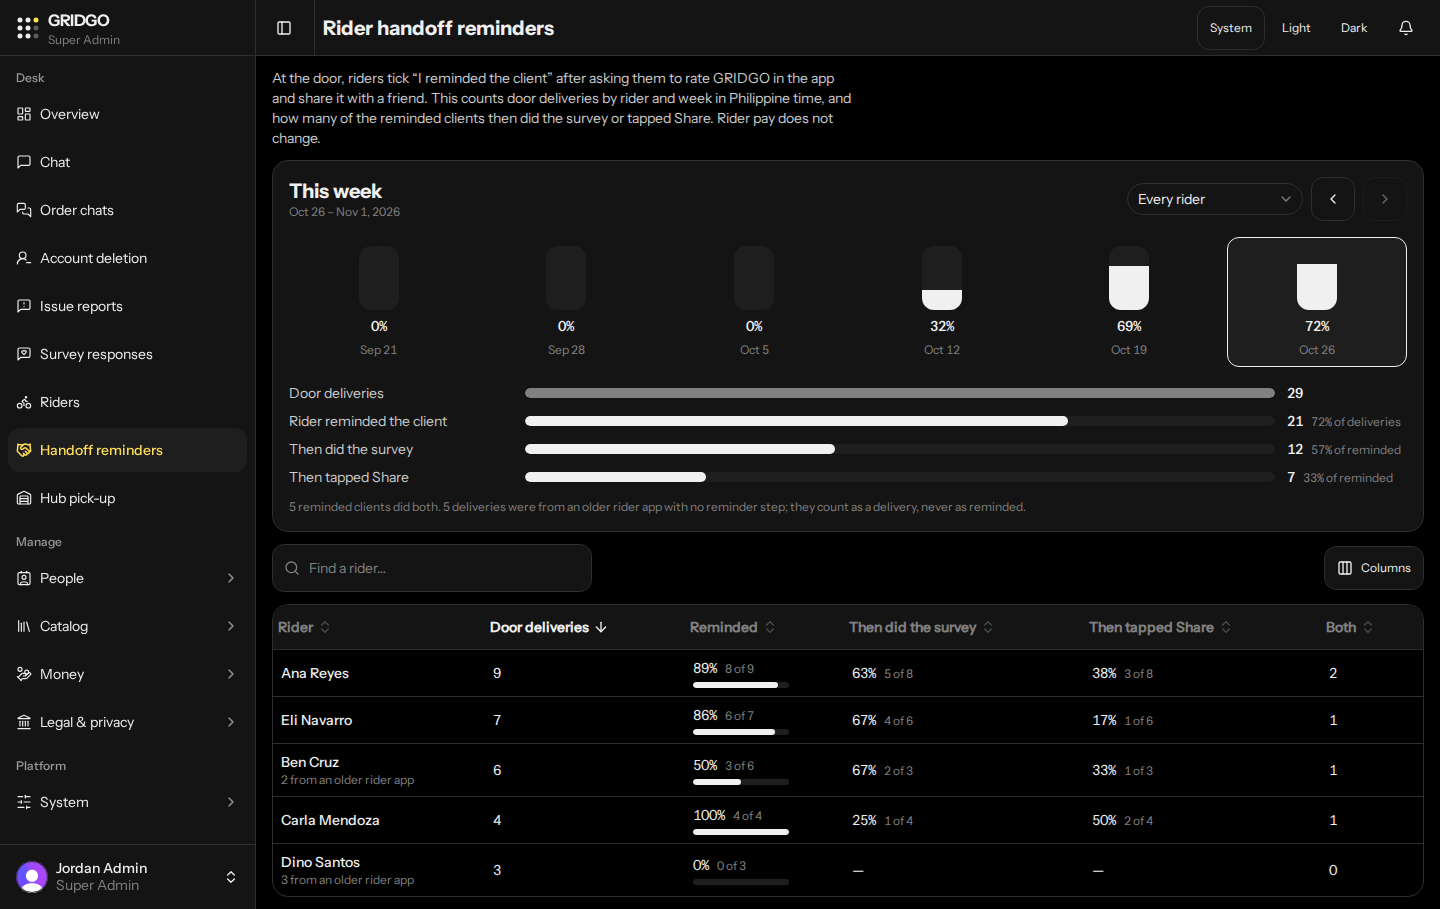
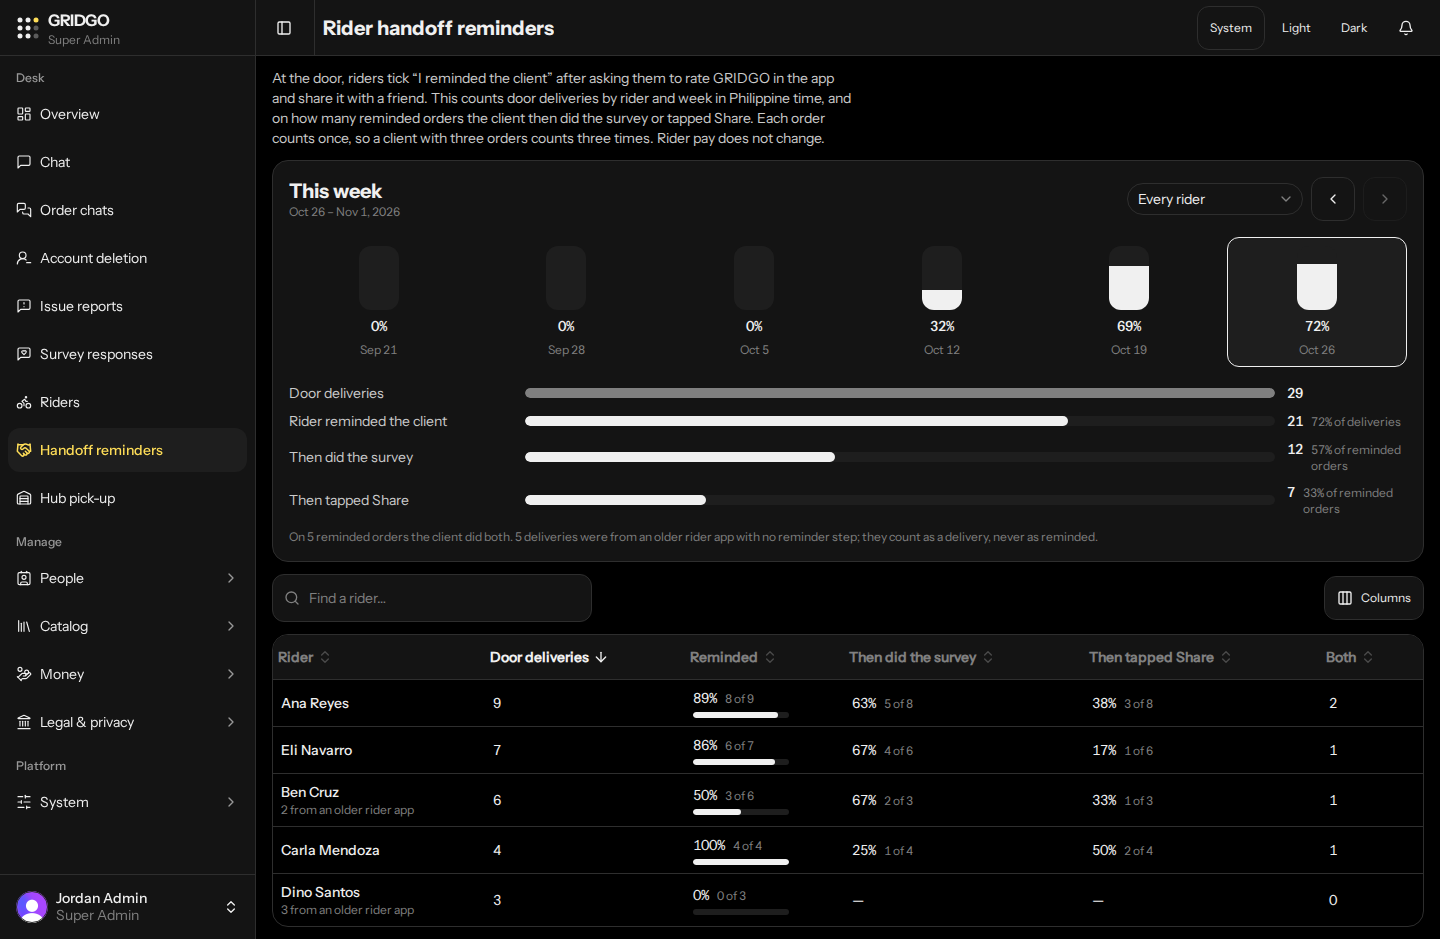
Handoff reminders: honest failed-block state, order wording, 44px week targets
From the independent review of aa8eac3:

- A failed read of another six-week block no longer shows the previous
  block's rows as zero deliveries: the page tracks which weeks its rows
  belong to and shows "Could not load these weeks" with Retry. A failed
  refresh of the same weeks keeps the last figures, says so, and offers
  Retry.
- Follow-through is per order, as the API counts it: "reminded orders",
  never "reminded clients", in the labels, notes and intro.
- Missions copy: a share tap is an attempt to open the share sheet,
  whether or not it opened.
- The week strip folds to two rows of three below 352px, so each week
  stays at least 44px wide at 320px.

Regression tests for the failed block, the failed refresh, one client's
three orders, and the missions copy.

diff --git a/src/components/riders/HandoffReminders.tsx b/src/components/riders/HandoffReminders.tsx
@@ -63,7 +63,7 @@ function riderLabel(names: Map<string, string>, riderId: string): string {
  * Rider handoff reminders for Operations and Super Admin
  * (`GET /ops/delivery-reminders`, gridgo-rider#157). Riders tick "I reminded
  * the client" at the door; this shows, per rider and per Manila week, how
- * many door deliveries carried the reminder and how many of those clients
+ * many door deliveries carried the reminder and on how many of those orders the client
  * then did the survey and tapped Share. Read-only, and nothing here changes
  * rider pay. The week and rider live in the URL (`?week=2026-10-26&rider=`).
  */
@@ -277,7 +277,12 @@ export function HandoffReminders({ tree }: { tree: "ops" | "admin" }) {
     );
   }
 
-  const stale = loading && shownWindow !== windowKey;
+  // The rows on hand belong to another six weeks: shown while the next read
+  // is on its way (as skeletons), never as this window's figures. A read of
+  // these weeks that failed leaves nothing true to show but the error.
+  const otherWindow = shownWindow !== windowKey;
+  const waiting = pending || (loading && otherWindow);
+  const windowFailed = !loading && error !== null && otherWindow;
   const totals = totalsByWeek.get(selected) ?? sumReminderWeeks([]);
   const riderName = riderFilter ? riderLabel(names, riderFilter) : null;
 
@@ -286,8 +291,9 @@ export function HandoffReminders({ tree }: { tree: "ops" | "admin" }) {
       <p className="text-body text-text-secondary m-0 max-w-prose">
         At the door, riders tick &ldquo;I reminded the client&rdquo; after asking them to
         rate GRIDGO in the app and share it with a friend. This counts door deliveries by
-        rider and week in Philippine time, and how many of the reminded clients then did
-        the survey or tapped Share. Rider pay does not change.
+        rider and week in Philippine time, and on how many reminded orders the client then
+        did the survey or tapped Share. Each order counts once, so a client with three
+        orders counts three times. Rider pay does not change.
       </p>
 
       <section className="gg-card flex flex-col gap-4" aria-labelledby="reminder-week">
@@ -341,25 +347,44 @@ export function HandoffReminders({ tree }: { tree: "ops" | "admin" }) {
           </div>
         </div>
 
-        <WeekStrip
-          weeks={strip}
-          current={current}
-          selected={selected}
-          totals={totalsByWeek}
-          loading={pending || stale}
-          onSelect={(week) => go({ week })}
-        />
+        {windowFailed ? (
+          <ErrorState
+            title="Could not load these weeks"
+            body={error ?? ""}
+            action={
+              <Button variant="secondary" onClick={() => void load()}>
+                Retry
+              </Button>
+            }
+          />
+        ) : (
+          <>
+            <WeekStrip
+              weeks={strip}
+              current={current}
+              selected={selected}
+              totals={totalsByWeek}
+              loading={waiting}
+              onSelect={(week) => go({ week })}
+            />
 
-        <FollowThrough totals={totals} loading={pending || stale} />
+            <FollowThrough totals={totals} loading={waiting} />
+          </>
+        )}
       </section>
 
-      {error && rows ? (
-        <p className="text-body text-error m-0" role="alert">
-          {error}
-        </p>
+      {error && rows && !windowFailed ? (
+        <div className="flex flex-wrap items-center gap-3" role="alert">
+          <p className="text-body text-error m-0">
+            {error} These figures are from the last successful read.
+          </p>
+          <Button variant="secondary" onClick={() => void load()}>
+            Retry
+          </Button>
+        </div>
       ) : null}
 
-      {!pending && !stale && weekRows.length === 0 ? (
+      {windowFailed ? null : !waiting && weekRows.length === 0 ? (
         <EmptyState
           title={
             riderName ? `No door deliveries by ${riderName} this week` : "No door deliveries this week"
@@ -377,7 +402,7 @@ export function HandoffReminders({ tree }: { tree: "ops" | "admin" }) {
         <DataTable
           columns={columns}
           data={weekRows}
-          loading={pending || stale}
+          loading={waiting}
           getRowId={(row) => `${row.riderId}:${row.weekStart}`}
           caption={`Handoff reminders by rider, ${weekLabel(selected)}`}
           filterPlaceholder="Find a rider…"
@@ -406,9 +431,9 @@ export function RateCell({
   const words =
     percent === null
       ? of === "reminded"
-        ? "No reminded clients"
+        ? "No reminded orders"
         : "No deliveries"
-      : `${part} of ${whole} ${of === "reminded" ? "reminded clients" : "deliveries"}, ${percent}%`;
+      : `${part} of ${whole} ${of === "reminded" ? "reminded orders" : "deliveries"}, ${percent}%`;
   return (
     <span className="inline-flex min-w-0 flex-col gap-1" aria-label={words}>
       <span className="inline-flex items-baseline gap-2" aria-hidden>
@@ -452,7 +477,13 @@ function WeekStrip({
   onSelect: (week: string) => void;
 }) {
   return (
-    <div role="group" aria-label="Weeks" className="grid grid-cols-6 gap-1 sm:gap-2">
+    // Six across from 352px; below that (a 320px phone) a week would be under
+    // the 44px floor, so the strip folds to two rows of three.
+    <div
+      role="group"
+      aria-label="Weeks"
+      className="grid grid-cols-3 gap-1 min-[352px]:grid-cols-6 sm:gap-2"
+    >
       {weeks.map((week) => {
         const total = totals.get(week);
         const deliveries = total?.deliveries ?? 0;
@@ -475,7 +506,7 @@ function WeekStrip({
             aria-label={label}
             onClick={() => onSelect(week)}
             className={cn(
-              "flex min-h-11 min-w-0 flex-col items-stretch gap-1.5 rounded-field border px-1 py-2 text-center",
+              "flex min-h-11 min-w-11 flex-col items-stretch gap-1.5 rounded-field border px-1 py-2 text-center",
               "hover:bg-overlay-hover disabled:cursor-default disabled:opacity-50 disabled:hover:bg-transparent",
               isSelected ? "border-text-primary bg-surface-variant" : "border-transparent",
             )}
@@ -540,7 +571,7 @@ function FollowThrough({ totals, loading }: { totals: ReminderTotals; loading: b
       value: totals.surveySubmittedDeliveries,
       note:
         totals.remindedDeliveries > 0
-          ? `${formatRate(totals.surveySubmittedDeliveries, totals.remindedDeliveries)} of reminded`
+          ? `${formatRate(totals.surveySubmittedDeliveries, totals.remindedDeliveries)} of reminded orders`
           : null,
     },
     {
@@ -549,7 +580,7 @@ function FollowThrough({ totals, loading }: { totals: ReminderTotals; loading: b
       value: totals.shareTappedDeliveries,
       note:
         totals.remindedDeliveries > 0
-          ? `${formatRate(totals.shareTappedDeliveries, totals.remindedDeliveries)} of reminded`
+          ? `${formatRate(totals.shareTappedDeliveries, totals.remindedDeliveries)} of reminded orders`
           : null,
     },
   ];
@@ -598,7 +629,7 @@ function FollowThrough({ totals, loading }: { totals: ReminderTotals; loading: b
       {!loading && (totals.surveyAndShareDeliveries > 0 || totals.legacyDeliveries > 0) ? (
         <p className="text-caption text-text-muted m-0">
           {totals.surveyAndShareDeliveries > 0
-            ? `${totals.surveyAndShareDeliveries} reminded ${totals.surveyAndShareDeliveries === 1 ? "client" : "clients"} did both. `
+            ? `On ${totals.surveyAndShareDeliveries} reminded ${totals.surveyAndShareDeliveries === 1 ? "order" : "orders"} the client did both. `
             : ""}
           {totals.legacyDeliveries > 0
             ? `${totals.legacyDeliveries} ${totals.legacyDeliveries === 1 ? "delivery was" : "deliveries were"} from an older rider app with no reminder step; ${totals.legacyDeliveries === 1 ? "it counts" : "they count"} as a delivery, never as reminded.`

diff --git a/src/components/riders/__tests__/handoff-reminders.test.tsx b/src/components/riders/__tests__/handoff-reminders.test.tsx
@@ -2,20 +2,33 @@
 
 import "@testing-library/jest-dom/vitest";
 
-import { cleanup, fireEvent, render, screen, waitFor, within } from "@testing-library/react";
+import {
+  act,
+  cleanup,
+  fireEvent,
+  render,
+  screen,
+  waitFor,
+  within,
+} from "@testing-library/react";
 import React from "react";
 import { afterEach, beforeEach, describe, expect, it, vi } from "vitest";
 
 import { ApiError } from "@/lib/api/client";
 
-const { api, nav } = vi.hoisted(() => ({
+const { api, nav, live } = vi.hoisted(() => ({
+  live: { reload: null as null | (() => Promise<void> | void) },
   api: { apiRequest: vi.fn(), listUsers: vi.fn() },
   nav: { replace: vi.fn(), params: new URLSearchParams() },
 }));
 
 vi.stubGlobal("React", React);
 vi.stubGlobal("PointerEvent", MouseEvent);
-vi.mock("@/lib/live/useLiveReload", () => ({ useLiveReload: () => {} }));
+vi.mock("@/lib/live/useLiveReload", () => ({
+  useLiveReload: (_keys: unknown, reload: () => Promise<void> | void) => {
+    live.reload = reload;
+  },
+}));
 vi.mock("next/navigation", () => ({
   useRouter: () => ({ push: vi.fn(), replace: nav.replace }),
   useSearchParams: () => nav.params,
@@ -69,6 +82,7 @@ afterEach(() => {
   vi.useRealTimers();
   vi.clearAllMocks();
   nav.params = new URLSearchParams();
+  live.reload = null;
 });
 
 describe("stripWeeks", () => {
@@ -104,15 +118,15 @@ describe("HandoffReminders", () => {
     );
     const ana = within(table).getByText("Ana Reyes").closest("tr")!;
     expect(within(ana).getByLabelText("3 of 4 deliveries, 75%")).toBeInTheDocument();
-    expect(within(ana).getByLabelText("2 of 3 reminded clients, 67%")).toBeInTheDocument();
-    expect(within(ana).getByLabelText("1 of 3 reminded clients, 33%")).toBeInTheDocument();
+    expect(within(ana).getByLabelText("2 of 3 reminded orders, 67%")).toBeInTheDocument();
+    expect(within(ana).getByLabelText("1 of 3 reminded orders, 33%")).toBeInTheDocument();
     expect(within(ana).getByText("1 from an older rider app")).toBeInTheDocument();
     // Only this week's riders are listed; last week sits on the strip.
     expect(within(table).getAllByRole("row")).toHaveLength(3);
 
     // The week's follow-through, across both riders: 5 of 6 reminded.
     expect(screen.getByText("83% of deliveries")).toBeInTheDocument();
-    expect(screen.getByText("40% of reminded")).toBeInTheDocument();
+    expect(screen.getByText("40% of reminded orders")).toBeInTheDocument();
     expect(
       screen.getByRole("button", { name: "Oct 19 – Oct 25, 2026: 20% reminded, 1 of 5 deliveries" }),
     ).toBeInTheDocument();
@@ -127,7 +141,7 @@ describe("HandoffReminders", () => {
     render(<HandoffReminders tree="ops" />);
 
     const table = await screen.findByRole("table");
-    expect(within(table).getAllByLabelText("0 of 3 reminded clients, 0%")).toHaveLength(2);
+    expect(within(table).getAllByLabelText("0 of 3 reminded orders, 0%")).toHaveLength(2);
   });
 
   it("selects a week from the strip through the address bar", async () => {
@@ -179,6 +193,79 @@ describe("HandoffReminders", () => {
 
     fireEvent.click(await screen.findByRole("button", { name: "Go to this week" }));
     expect(nav.replace).toHaveBeenCalledWith("/ops/handoff-reminders", { scroll: false });
+  });
+
+  it("never shows another block's rows as zero when the next six weeks fail to load", async () => {
+    report([row()]);
+    const { rerender } = render(<HandoffReminders tree="ops" />);
+    expect(await screen.findByRole("table")).toBeInTheDocument();
+
+    // Previous week from Sep 21 opens the block before; that read fails.
+    api.apiRequest.mockRejectedValueOnce(new ApiError(500, { error: "server_error" }));
+    nav.params = new URLSearchParams("week=2026-09-14");
+    rerender(<HandoffReminders tree="ops" />);
+
+    expect(await screen.findByText("Could not load these weeks")).toBeInTheDocument();
+    expect(screen.getByRole("heading", { name: "Week of Sep 14" })).toBeInTheDocument();
+    expect(screen.queryByText(/No door deliveries/)).toBeNull();
+    expect(screen.queryByText("Door deliveries")).toBeNull();
+    expect(screen.queryByRole("group", { name: "Weeks" })).toBeNull();
+    expect(screen.queryByRole("table")).toBeNull();
+
+    // Retry reads the requested block, and only then its figures show.
+    report([row({ weekStart: "2026-09-14", week: "2026-W38", deliveries: 2, remindedDeliveries: 1 })]);
+    fireEvent.click(screen.getByRole("button", { name: "Retry" }));
+    const table = await screen.findByRole("table");
+    expect(within(table).getByLabelText("1 of 2 deliveries, 50%")).toBeInTheDocument();
+    expect(screen.queryByText("Could not load these weeks")).toBeNull();
+    expect(api.apiRequest).toHaveBeenLastCalledWith(
+      "/ops/delivery-reminders?from=2026-08-09T16%3A00%3A00.000Z&to=2026-09-20T16%3A00%3A00.000Z&offset=0&limit=500",
+    );
+  });
+
+  it("keeps a failed refresh of the same weeks honest, with Retry", async () => {
+    report([row()]);
+    render(<HandoffReminders tree="ops" />);
+    const table = await screen.findByRole("table");
+
+    // A live update re-reads the same six weeks, and that read fails.
+    api.apiRequest.mockRejectedValueOnce(new ApiError(500, { error: "server_error" }));
+    await act(async () => {
+      await live.reload?.();
+    });
+
+    expect(
+      await screen.findByText(/These figures are from the last successful read\./),
+    ).toBeInTheDocument();
+    expect(within(table).getByText("Ana Reyes")).toBeInTheDocument();
+    expect(screen.queryByText("Could not load these weeks")).toBeNull();
+    fireEvent.click(screen.getByRole("button", { name: "Retry" }));
+    await waitFor(() =>
+      expect(screen.queryByText(/These figures are from the last successful read/)).toBeNull(),
+    );
+  });
+
+  it("counts reminded orders, not clients: one client's three orders read as three orders", async () => {
+    // The API joins survey and taps per order, so one client with three
+    // reminded orders, each surveyed and shared, is 3 of 3.
+    report([
+      row({
+        deliveries: 3,
+        remindedDeliveries: 3,
+        legacyDeliveries: 0,
+        surveySubmittedDeliveries: 3,
+        shareTappedDeliveries: 3,
+        surveyAndShareDeliveries: 3,
+      }),
+    ]);
+    render(<HandoffReminders tree="ops" />);
+
+    const table = await screen.findByRole("table");
+    const ana = within(table).getByText("Ana Reyes").closest("tr")!;
+    expect(within(ana).getAllByLabelText("3 of 3 reminded orders, 100%")).toHaveLength(2);
+    expect(screen.getByText("On 3 reminded orders the client did both.")).toBeInTheDocument();
+    expect(screen.getAllByText("100% of reminded orders")).toHaveLength(2);
+    expect(screen.queryByText(/reminded clients/)).toBeNull();
   });
 
   it("explains a failed read and retries it", async () => {

diff --git a/src/components/founding-testers/__tests__/founding-testers.test.tsx b/src/components/founding-testers/__tests__/founding-testers.test.tsx
@@ -65,6 +65,7 @@ vi.mock("@/lib/api/client", async () => {
 });
 
 import { ClientAccount } from "@/components/founding-testers/ClientAccount";
+import { FoundingTestersDesk } from "@/components/founding-testers/FoundingTestersDesk";
 import { FoundingTestersList } from "@/components/founding-testers/FoundingTestersList";
 
 afterEach(() => {
@@ -162,6 +163,22 @@ describe("Founding Testers view", () => {
     );
     const second = within(within(table).getByText("Client 2").closest("tr")!);
     expect(second.getByLabelText("0 Share, 0 Send to a friend")).toBeInTheDocument();
+  });
+
+  it("says a share tap is an attempt to open the share sheet, not an open or a post", async () => {
+    api.listFoundingTesters.mockResolvedValue({
+      serverTime: "2026-10-20T08:00:00.000Z",
+      total: 0,
+      clients: [],
+    });
+    render(<FoundingTestersDesk tree="ops" />);
+
+    expect(
+      await screen.findByText(
+        /Share taps count each time a client tried to open the share sheet, with Share or “Send to a friend”, whether or not it opened; a tap is not a post, and earns nothing\./,
+      ),
+    ).toBeInTheDocument();
+    expect(screen.queryByText(/client opened the share sheet/)).toBeNull();
   });
 
   it("still reads when share taps cannot, with a dash in their place", async () => {

diff --git a/src/components/founding-testers/FoundingTestersDesk.tsx b/src/components/founding-testers/FoundingTestersDesk.tsx
@@ -48,8 +48,9 @@ export function FoundingTestersDesk({ tree }: { tree: "ops" | "admin" }) {
         the label and a {formatPhp(1500)} GRIDGO voucher valid 30 days, once per account.
         With &ldquo;{INVITE_A_FRIEND}&rdquo;, when a friend they invited finishes all
         five, both get a voucher too. GRIDGO counts this on its own. Share taps count
-        each time a client opened the share sheet, with Share or &ldquo;Send to a
-        friend&rdquo;; a tap is not a post, and earns nothing.
+        each time a client tried to open the share sheet, with Share or &ldquo;Send to
+        a friend&rdquo;, whether or not it opened; a tap is not a post, and earns
+        nothing.
       </p>
       <Tabs value={tab} onValueChange={(value) => go(deskTab(String(value)))}>
         <TabsList>

diff --git a/src/lib/api/sharing-reminders.ts b/src/lib/api/sharing-reminders.ts
@@ -4,7 +4,7 @@
  *
  * `GET /ops/mission-shares` counts each client's Share and "Send to a friend"
  * taps; `GET /ops/delivery-reminders` groups door deliveries by rider and
- * Asia/Manila week with what the reminded clients did next. Both are
+ * Asia/Manila week with what happened next on each reminded order. Both are
  * Operations and Super Admin only, paged by `offset`/`limit` (≤ 500) with a
  * `total`, and filtered by `from` (inclusive) / `to` (exclusive). An order
  * carries the rider's own record as `deliveryReminder`, with any package
